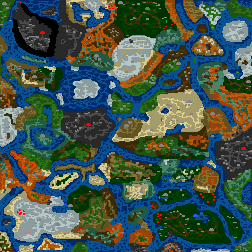
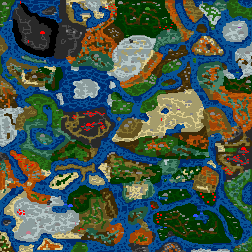
Fix

diff --git a/h3mex/src/minimap/mm_layers.py b/h3mex/src/minimap/mm_layers.py
@@ -4,49 +4,49 @@ MM_LAYERS = {
     "standard": {"display_name": "Standard Minimap", "filter": None, "subfilter": None},
     "base1": {"display_name": "Base Layer 1", "filter": groups.DECOR, "subfilter": None},
     "base2": {"display_name": "Base Layer 2", "filter": None, "subfilter": None},
-    # "border": {"display_name": "Border Objects", "filter": groups.BORDER, "subfilter": None},
-    # "tents": {"display_name": "Keymaster's Tents", "filter": {objects.ID.Keymasters_Tent}, "subfilter": None},
-    # "monoliths1_en": {
-    #     "display_name": "One-Way Monolith Entrances",
-    #     "filter": {objects.ID.One_Way_MonolithPortal_Entrance},
-    #     "subfilter": groups.ONE_WAY_MONOLITHS,
-    # },
-    # "monoliths1_ex": {
-    #     "display_name": "One-Way Monolith Exits",
-    #     "filter": {objects.ID.One_Way_MonolithPortal_Exit},
-    #     "subfilter": groups.ONE_WAY_MONOLITHS,
-    # },
-    # "portals1_en": {
-    #     "display_name": "One-Way Portal Entrances",
-    #     "filter": {objects.ID.One_Way_MonolithPortal_Entrance},
-    #     "subfilter": groups.ONE_WAY_PORTALS,
-    # },
-    # "portals1_ex": {
-    #     "display_name": "One-Way Portal Exits",
-    #     "filter": {objects.ID.One_Way_MonolithPortal_Exit},
-    #     "subfilter": groups.ONE_WAY_PORTALS,
-    # },
-    # "monoliths2": {
-    #     "display_name": "Two-Way Monoliths",
-    #     "filter": {objects.ID.Two_Way_MonolithPortal},
-    #     "subfilter": groups.TWO_WAY_MONOLITHS,
-    # },
-    # "portals2": {
-    #     "display_name": "Two-Way Portals",
-    #     "filter": {objects.ID.Two_Way_MonolithPortal},
-    #     "subfilter": groups.TWO_WAY_PORTALS,
-    # },
-    # "portals2_sea": {
-    #     "display_name": "Two-Way Sea Portals",
-    #     "filter": {objects.ID.Two_Way_MonolithPortal},
-    #     "subfilter": groups.TWO_WAY_SEA_PORTALS,
-    # },
-    # "whirlpools": {"display_name": "Whirlpools", "filter": {objects.ID.Whirlpool}, "subfilter": None},
-    # "junkmen": {
-    #     "display_name": "Junkmen",
-    #     "filter": {objects.ID.HotA_Visitable_1},
-    #     "subfilter": {objects.SubID.HotAVisitable1.Junkman},
-    # },
+    "border": {"display_name": "Border Objects", "filter": groups.BORDER, "subfilter": None},
+    "tents": {"display_name": "Keymaster's Tents", "filter": {objects.ID.Keymasters_Tent}, "subfilter": None},
+    "monoliths1_en": {
+        "display_name": "One-Way Monolith Entrances",
+        "filter": {objects.ID.One_Way_MonolithPortal_Entrance},
+        "subfilter": groups.ONE_WAY_MONOLITHS,
+    },
+    "monoliths1_ex": {
+        "display_name": "One-Way Monolith Exits",
+        "filter": {objects.ID.One_Way_MonolithPortal_Exit},
+        "subfilter": groups.ONE_WAY_MONOLITHS,
+    },
+    "portals1_en": {
+        "display_name": "One-Way Portal Entrances",
+        "filter": {objects.ID.One_Way_MonolithPortal_Entrance},
+        "subfilter": groups.ONE_WAY_PORTALS,
+    },
+    "portals1_ex": {
+        "display_name": "One-Way Portal Exits",
+        "filter": {objects.ID.One_Way_MonolithPortal_Exit},
+        "subfilter": groups.ONE_WAY_PORTALS,
+    },
+    "monoliths2": {
+        "display_name": "Two-Way Monoliths",
+        "filter": {objects.ID.Two_Way_MonolithPortal},
+        "subfilter": groups.TWO_WAY_MONOLITHS,
+    },
+    "portals2": {
+        "display_name": "Two-Way Portals",
+        "filter": {objects.ID.Two_Way_MonolithPortal},
+        "subfilter": groups.TWO_WAY_PORTALS,
+    },
+    "portals2_sea": {
+        "display_name": "Two-Way Sea Portals",
+        "filter": {objects.ID.Two_Way_MonolithPortal},
+        "subfilter": groups.TWO_WAY_SEA_PORTALS,
+    },
+    "whirlpools": {"display_name": "Whirlpools", "filter": {objects.ID.Whirlpool}, "subfilter": None},
+    "junkmen": {
+        "display_name": "Junkmen",
+        "filter": {objects.ID.HotA_Visitable_1},
+        "subfilter": {objects.SubID.HotAVisitable1.Junkman},
+    },
     # "dwellings": {
     #     "display_name": "Dwellings",
     #     "filter": {
@@ -127,10 +127,10 @@ MM_LAYERS = {
     #     "filter": {objects.ID.HotA_Visitable_2},
     #     "subfilter": {objects.SubID.HotAVisitable2.Observatory},
     # },
-    "coversofdarkness": {
-        "display_name": "Covers of Darkness",
-        "filter": {objects.ID.Cover_of_Darkness},
-        "subfilter": None,
-    },
+    # "coversofdarkness": {
+    #     "display_name": "Covers of Darkness",
+    #     "filter": {objects.ID.Cover_of_Darkness},
+    #     "subfilter": None,
+    # },
     # "oceanbottles": {"display_name": "Ocean Bottles", "filter": {objects.ID.Ocean_Bottle}, "subfilter": None},
 }

diff --git a/h3mex/src/export/export.py b/h3mex/src/export/export.py
@@ -24,8 +24,8 @@ def menu() -> None:
         case "4":
             json_.export("4")
         case "5":
-            minimap.generate(minimap.MMAction.EXPORT, minimap.MMType.STANDARD)
+            minimap.generate(minimap.MMAction.EXPORT, minimap.MMType.STANDARD, None)
         case "6":
-            minimap.generate(minimap.MMAction.EXPORT, minimap.MMType.EXTENDED)
+            minimap.generate(minimap.MMAction.EXPORT, minimap.MMType.EXTENDED, None)
 
     xprint()
